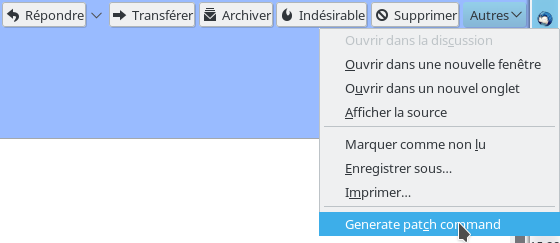
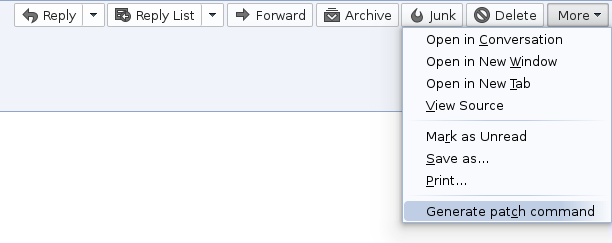
README.md: Fix the button label. Also, update screenshots.

diff --git a/README.md b/README.md
@@ -29,9 +29,9 @@ Under UNIX-like systems you can create the .xpi file by simply running:
 
 Once installed, go to Thunderbird and select an email, and go to the email pane
 (the one in which the body of the email is displayed). You have `Reply` and
-`Reply All`/`Reply to list` and `Forward` and `Archive`, `Junk` buttons and so
-on at the top of the pane, on the header box. The last of those buttons labeled
-`Other`. It opens a drop-down menu if you click on it. Do so: there is now a
+`Reply All`/`Reply List` and `Forward` and `Archive`, `Junk` buttons and so on
+at the top of the pane, on the header box. The last of those buttons labeled
+`More ⏷`. It opens a drop-down menu if you click on it. Do so: there is now a
 new item entitled `Generate patch command`. This is it! Click on it, and a
 pop-up window will show you the generated command line, already selected for
 you to copy.
@@ -41,7 +41,7 @@ copy it.
 
 ## Screenshots
 
-The new command (sorry guys, my interface is not in English):
+The new command:
 
 ![New command](misc/button.png).
 
